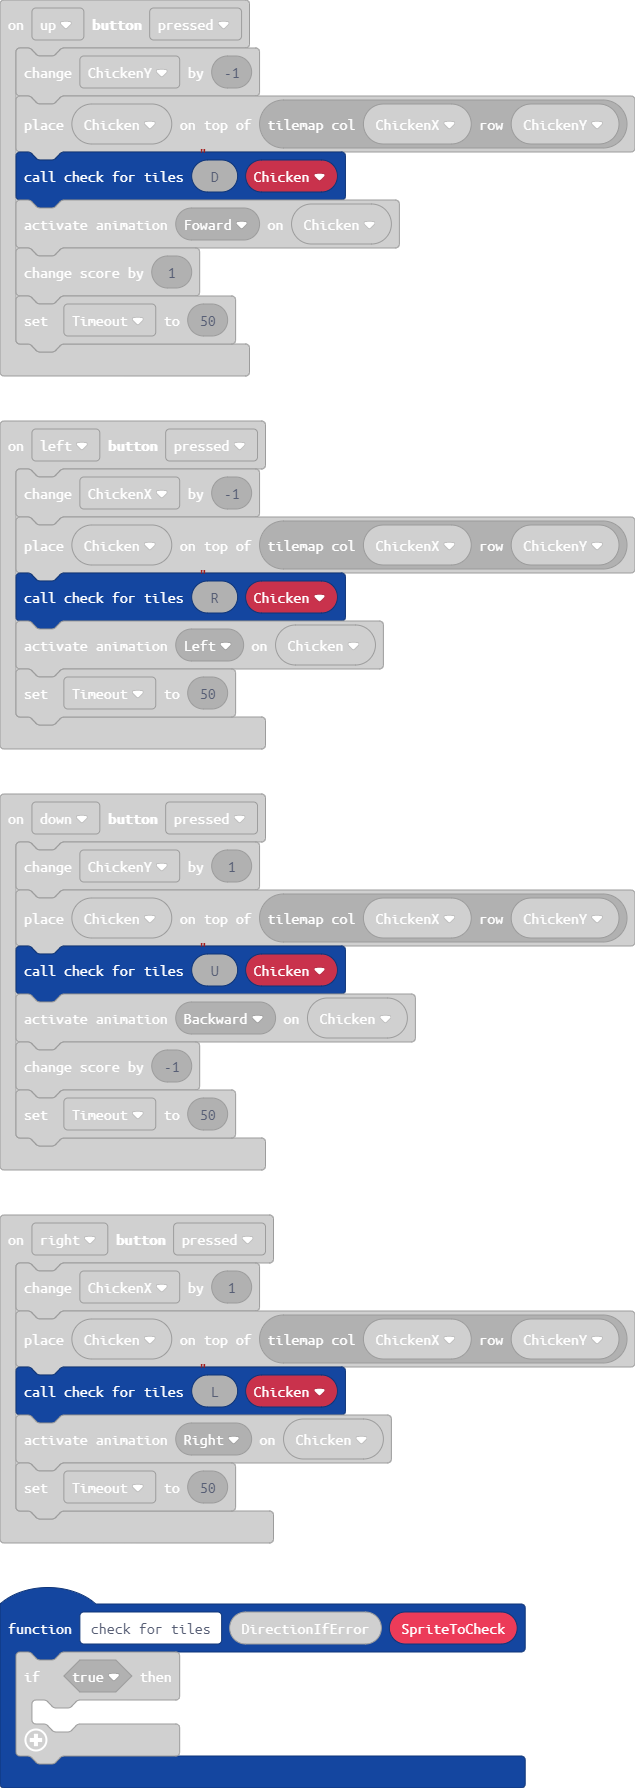
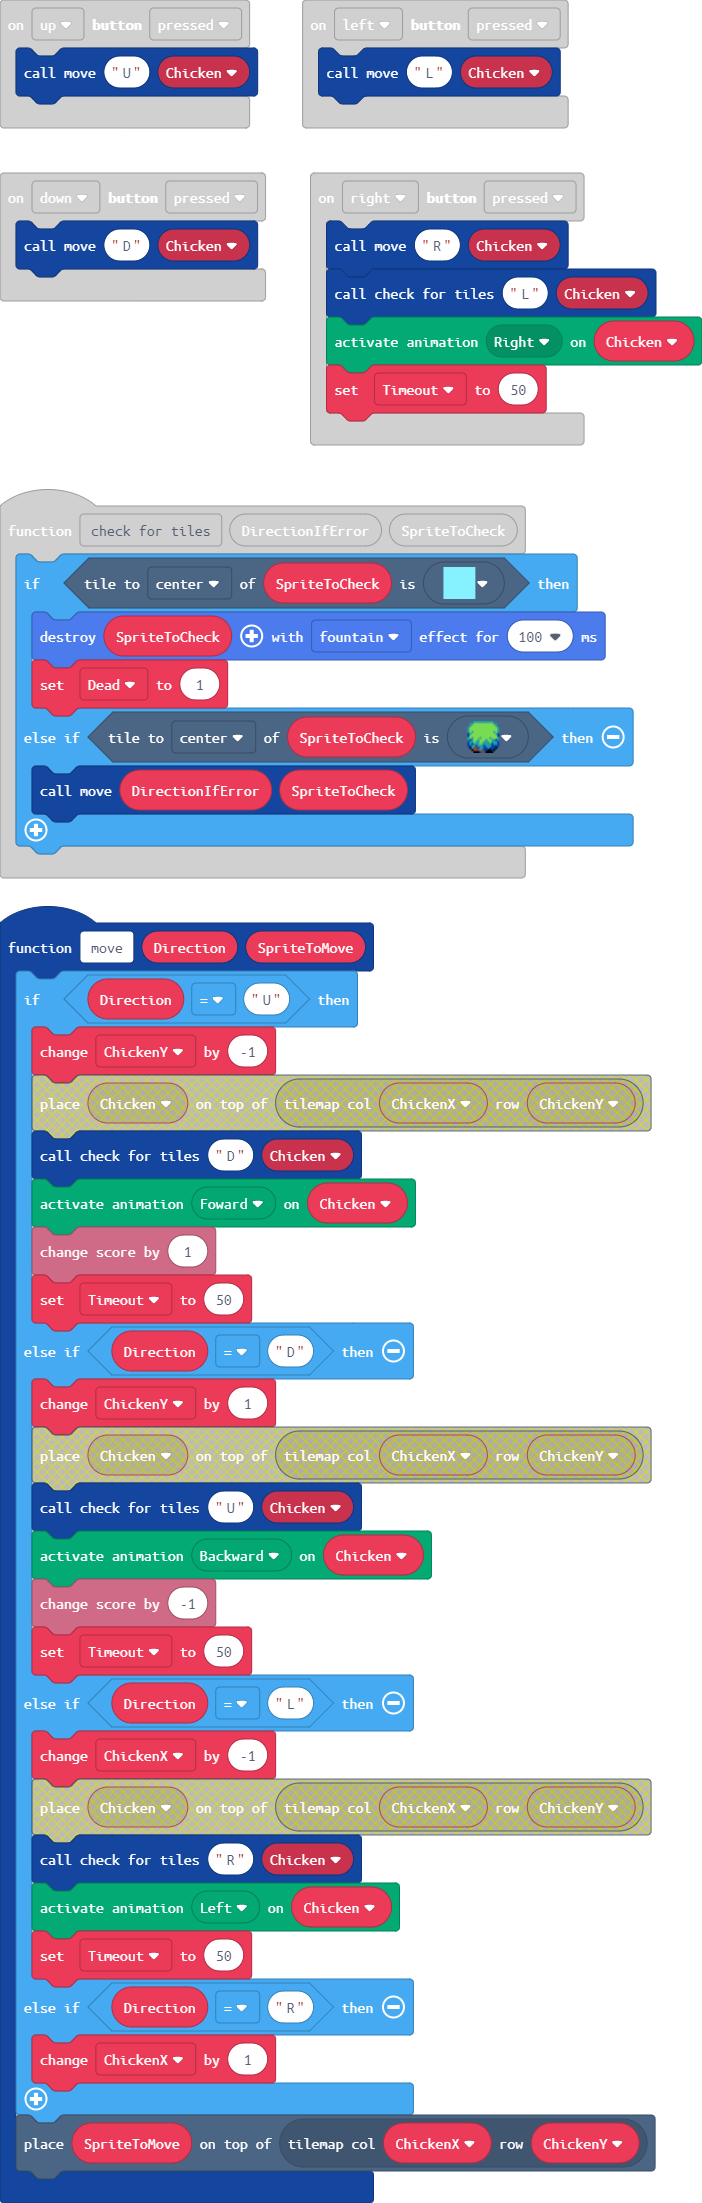
Update main.blocks, main.ts

diff --git a/main.ts b/main.ts
@@ -85,19 +85,29 @@ namespace myTiles {
 9 9 9 9 9 9 9 9 9 9 9 9 9 9 9 9 
 `
 }
+function move (Direction: string, SpriteToMove: Sprite) {
+    if (Direction == "U") {
+        ChickenY += -1
+    } else if (Direction == "D") {
+        ChickenY += 1
+    } else if (Direction == "L") {
+        ChickenX += -1
+    } else if (Direction == "R") {
+        ChickenX += 1
+    }
+    tiles.placeOnTile(SpriteToMove, tiles.getTileLocation(ChickenX, ChickenY))
+}
 scene.onOverlapTile(SpriteKind.Projectile, sprites.castle.tileGrass1, function (sprite, location) {
     sprite.destroy()
 })
 controller.left.onEvent(ControllerButtonEvent.Pressed, function () {
-    ChickenX += -1
-    tiles.placeOnTile(Chicken, tiles.getTileLocation(ChickenX, ChickenY))
+    move("L", Chicken)
     check_for_tiles("R", Chicken)
     animation.setAction(Chicken, ActionKind.Left)
     Timeout = 50
 })
 controller.down.onEvent(ControllerButtonEvent.Pressed, function () {
-    ChickenY += 1
-    tiles.placeOnTile(Chicken, tiles.getTileLocation(ChickenX, ChickenY))
+    move("D", Chicken)
     check_for_tiles("U", Chicken)
     animation.setAction(Chicken, ActionKind.Backward)
     info.changeScoreBy(-1)
@@ -126,13 +136,15 @@ sprites.onOverlap(SpriteKind.Projectile, SpriteKind.Projectile, function (sprite
     otherSprite.destroy(effects.fire, 100)
 })
 function check_for_tiles (DirectionIfError: string, SpriteToCheck: Sprite) {
-    if (true) {
-    	
+    if (SpriteToCheck.tileKindAt(TileDirection.Center, myTiles.tile2)) {
+        SpriteToCheck.destroy(effects.fountain, 100)
+        Dead = 1
+    } else if (SpriteToCheck.tileKindAt(TileDirection.Center, sprites.builtin.forestTiles0)) {
+        move(DirectionIfError, SpriteToCheck)
     }
 }
 controller.right.onEvent(ControllerButtonEvent.Pressed, function () {
-    ChickenX += 1
-    tiles.placeOnTile(Chicken, tiles.getTileLocation(ChickenX, ChickenY))
+    move("R", Chicken)
     check_for_tiles("L", Chicken)
     animation.setAction(Chicken, ActionKind.Right)
     Timeout = 50
@@ -144,8 +156,7 @@ scene.onOverlapTile(SpriteKind.Projectile, sprites.builtin.forestTiles0, functio
     sprite.destroy()
 })
 controller.up.onEvent(ControllerButtonEvent.Pressed, function () {
-    ChickenY += -1
-    tiles.placeOnTile(Chicken, tiles.getTileLocation(ChickenX, ChickenY))
+    move("U", Chicken)
     check_for_tiles("D", Chicken)
     animation.setAction(Chicken, ActionKind.Foward)
     info.changeScoreBy(1)
